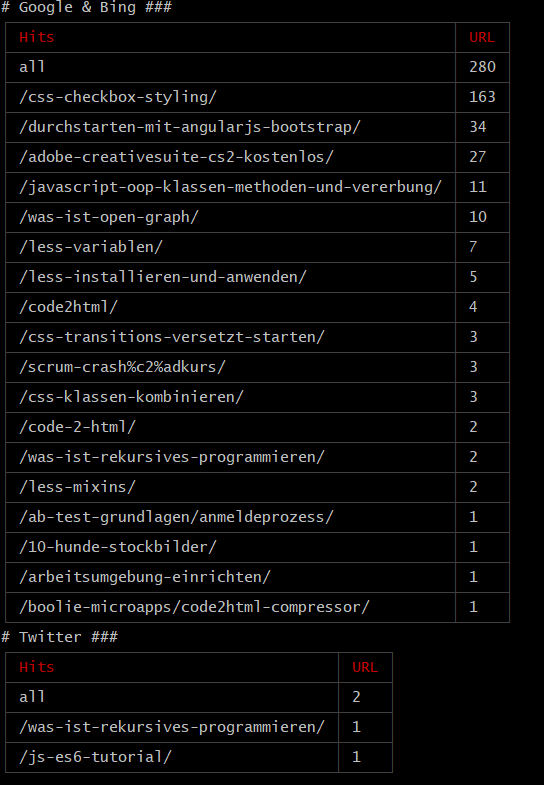
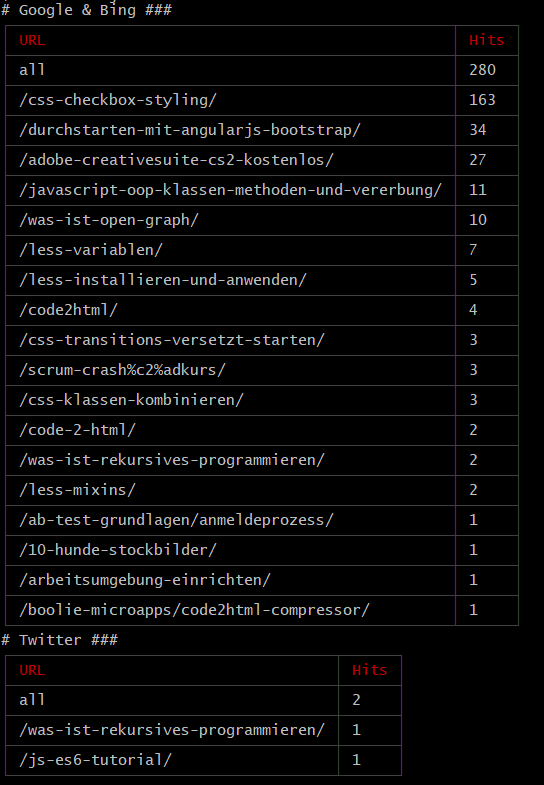
wrong screenshot

Changed region(s): [[0.0, 0.0, 0.8125, 1.0], [0.8438, 0.0306, 0.9688, 0.7949]]

diff --git a/main.js b/main.js
@@ -11,13 +11,13 @@ fs.readFile('log.json', 'utf8', function (err,data) {
 
   // instantiate
   var table_search = new Table({
-      head: ['Hits', 'URL']
+      head: ['URL', 'Hits']
   });
 
   var regex_social = RegExp('^.*https://t.co*.*$');
   // instantiate
   var table_social = new Table({
-      head: ['Hits', 'URL']
+      head: ['URL', 'Hits']
   });
 
   function analyse(regex, table){
